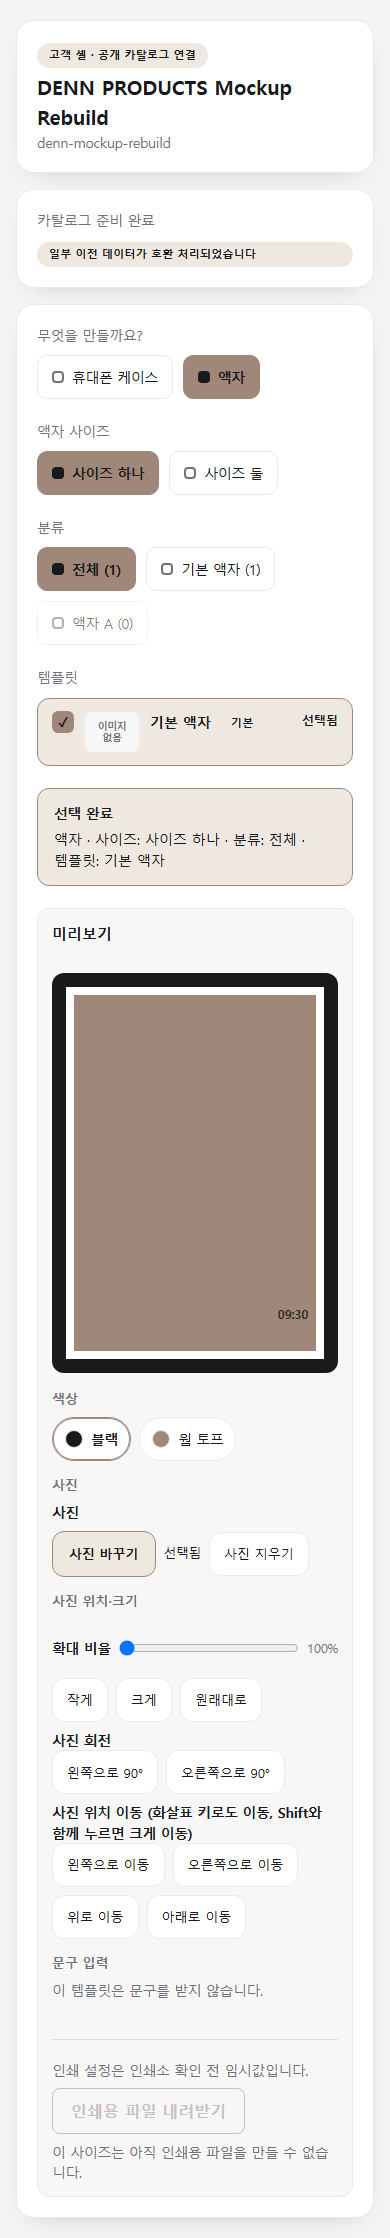
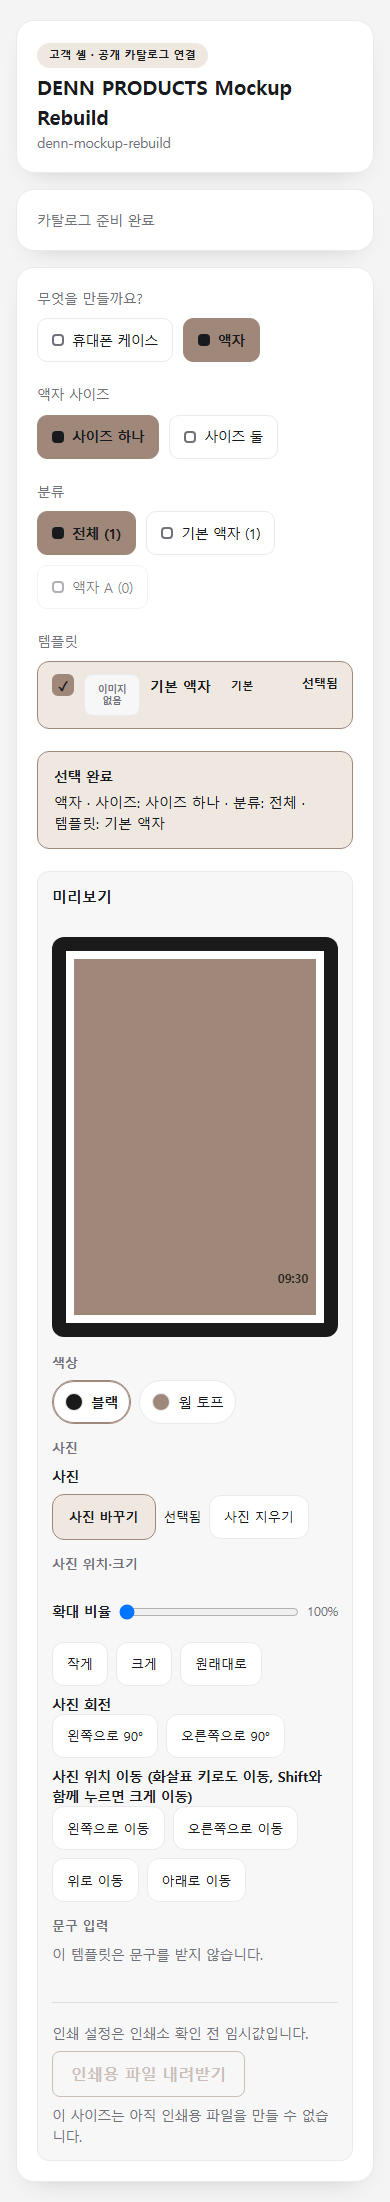
spec 091: hide successful catalog compatibility badge

diff --git a/apps/mockup/src/App.catalog-status.test.tsx b/apps/mockup/src/App.catalog-status.test.tsx
@@ -1,0 +1,40 @@
+import { readLegacyCatalog } from "@denn/shared";
+import { renderToStaticMarkup } from "react-dom/server";
+import { afterEach, expect, it, vi } from "vitest";
+import type { PublicCatalogUiState } from "./catalog/types";
+import { MockupRoot } from "./App";
+
+const injected = vi.hoisted(() => ({ state: { status: "idle" } as PublicCatalogUiState }));
+vi.mock("./catalog/usePublicCatalog", () => ({
+  usePublicCatalog: () => ({ state: injected.state, retry: () => undefined }),
+}));
+afterEach(() => {
+  injected.state = { status: "idle" };
+});
+const render = () => renderToStaticMarkup(<MockupRoot search="" env={{}} />);
+
+it.each([0, 3])(
+  "keeps ready without the information badge when warningCount is %s",
+  (warningCount) => {
+    const result = readLegacyCatalog({ models: [] });
+    if (!result.ok) throw new Error("synthetic catalog must read");
+    injected.state = { status: "ready", requestId: 1, document: result.document, warningCount };
+    const html = render();
+    expect(html).toContain("카탈로그 준비 완료");
+    expect(html).not.toContain("일부 이전 데이터가 호환 처리되었습니다");
+    expect(injected.state.warningCount).toBe(warningCount);
+  },
+);
+
+it("keeps the loading status", () => {
+  injected.state = { status: "loading", requestId: 1 };
+  expect(render()).toContain("카탈로그를 불러오는 중");
+});
+
+it("keeps invalid-catalog errors visible without adding a retry", () => {
+  injected.state = { status: "error", requestId: 1, code: "INVALID_CATALOG", retryable: false };
+  const html = render();
+  expect(html).toContain('role="alert"');
+  expect(html).toContain("카탈로그 데이터에 문제가 있습니다. 관리자에게 문의해 주세요.");
+  expect(html).not.toContain('data-testid="catalog-retry"');
+});

diff --git a/tests/e2e/mockup-catalog.spec.ts b/tests/e2e/mockup-catalog.spec.ts
@@ -76,11 +76,30 @@ test("gated response shows loading then ready (production initial mount request 
   expect(errors).toEqual([]);
 });
 
-test("warning fixture surfaces the safe compatibility notice", async ({ page }) => {
-  await routeCatalog(page, (r) => fulfillJson(r, LEGACY_WARN));
+test("spec 091 warning fixture stays ready without a compatibility information badge", async ({
+  page,
+}) => {
+  const errors = collectConsoleErrors(page);
+  const route = await routeCatalog(page, (r) => fulfillJson(r, LEGACY_WARN));
   await page.goto(MOCKUP_URL);
   await expect(status(page)).toHaveText("카탈로그 준비 완료");
-  await expect(page.getByText("일부 이전 데이터가 호환 처리되었습니다")).toBeVisible();
+  await expect(page.getByText("일부 이전 데이터가 호환 처리되었습니다")).toHaveCount(0);
+  expect(route.hits()).toBe(1);
+  expect(route.unexpected()).toBe(0);
+  expect(errors).toEqual([]);
+  const { mkdirSync } = await import("node:fs");
+  mkdirSync("docs/rebuild/results/spec-091", { recursive: true });
+  for (const viewport of [
+    { width: 390, height: 844 },
+    { width: 1280, height: 800 },
+  ]) {
+    await page.setViewportSize(viewport);
+    await page.screenshot({
+      path: `docs/rebuild/results/spec-091/catalog-ready-${viewport.width}x${viewport.height}.png`,
+      fullPage: true,
+      animations: "disabled",
+    });
+  }
 });
 
 test("500 → safe error + retry → 200 → ready (2 requests total)", async ({ page }) => {

diff --git a/apps/mockup/src/App.tsx b/apps/mockup/src/App.tsx
@@ -118,7 +118,6 @@ function CatalogStatus({
     return (
       <div className="denn-stack">
         <p data-testid="catalog-status">카탈로그 준비 완료</p>
-        {state.warningCount > 0 ? <Badge>일부 이전 데이터가 호환 처리되었습니다</Badge> : null}
       </div>
     );
   }
